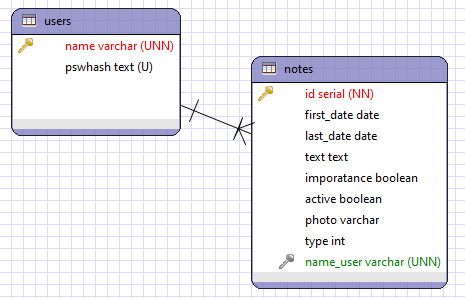
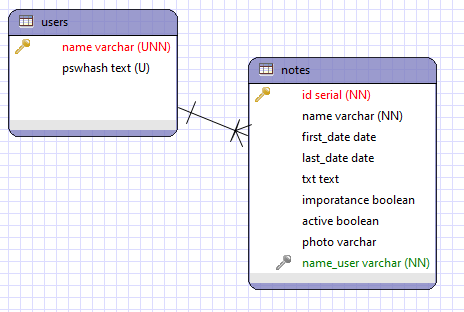
create endpoint delAccount, createNote

Changed region(s): [[0.0, 0.0, 1.0, 1.0]]

diff --git a/backend/controller/note.controller.js b/backend/controller/note.controller.js
@@ -1,0 +1,39 @@
+import db from "../db.js"
+
+class NoteController {
+    async createNote(req, res) {
+        const {name, text, name_user} = req.body
+        const note = await db.query("INSERT INTO notes(name,txt,name_user) VALUES ($1,$2,$3) RETURNING *", [name, text, name_user])
+        res.json(note)
+    }
+
+    async getAllCompleted(req, res) {
+
+    }
+
+    async getAllActive(req, res) {
+
+    }
+
+    async deleteNote(req, res) {
+
+    }
+
+    async changePhoto(req, res) {
+
+    }
+
+    async changeImportance(req, res) {
+
+    }
+
+    async changeText(req, res) {
+
+    }
+
+    async changeStatus(req, res) {
+
+    }
+}
+
+export const noteController = new NoteController()

diff --git a/backend/routes/note.routes.js b/backend/routes/note.routes.js
@@ -1,0 +1,17 @@
+import express from 'express'
+const noteRouter = express()
+import {noteController} from "../controller/note.controller.js"
+
+noteRouter.post("/create",noteController.createNote)
+
+noteRouter.get("/completed/:name",noteController.getAllCompleted)
+noteRouter.get("/active/:name", noteController.getAllActive)
+
+noteRouter.delete("/:note", noteController.deleteNote)
+
+noteRouter.put("/change/photo/:note", noteController.changePhoto)
+noteRouter.put("/change/importance/:note", noteController.changeImportance)
+noteRouter.put("/change/text/:note", noteController.changeText)
+noteRouter.put("/change/status/:note", noteController.changeStatus)
+
+export default noteRouter

diff --git a/backend/controller/user.controller.js b/backend/controller/user.controller.js
@@ -13,11 +13,17 @@ class UserController {
     async signUp(req, res) {
         const {name, password} = req.body
         db.query("INSERT INTO users (name,pswhash) VALUES ($1,crypt($2,gen_salt('md5')))", [name, password]).then(v => {
-
+            res.json()
         }, e => {
             if (e.code =='23505')
                 res.json('такой username уже существует')
         })
+    }
+
+    async deleteAccount(req, res){
+        const name = req.params.name
+        await db.query("DELETE FROM users WHERE name=$1", [name])
+        res.json()
     }
 }
 

diff --git a/backend/index.js b/backend/index.js
@@ -1,10 +1,11 @@
 import express from 'express'
 import userRouter from './routes/user.routes.js'
-
+import noteRouter from './routes/note.routes.js'
 const PORT = 8080;
 
 const app = express();
 
 app.use(express.json())
 app.use("/api",userRouter)
+app.use("/api/note",noteRouter)
 app.listen(PORT, () => console.log('server stated on PORT ' + PORT))

diff --git a/backend/routes/user.routes.js b/backend/routes/user.routes.js
@@ -5,4 +5,5 @@ import {userController} from "../controller/user.controller.js"
 
 userRouter.post("/signIn",userController.signIn)
 userRouter.post("/signUp",userController.signUp)
+userRouter.delete("/delAccount/:name", userController.deleteAccount)
 export default userRouter
